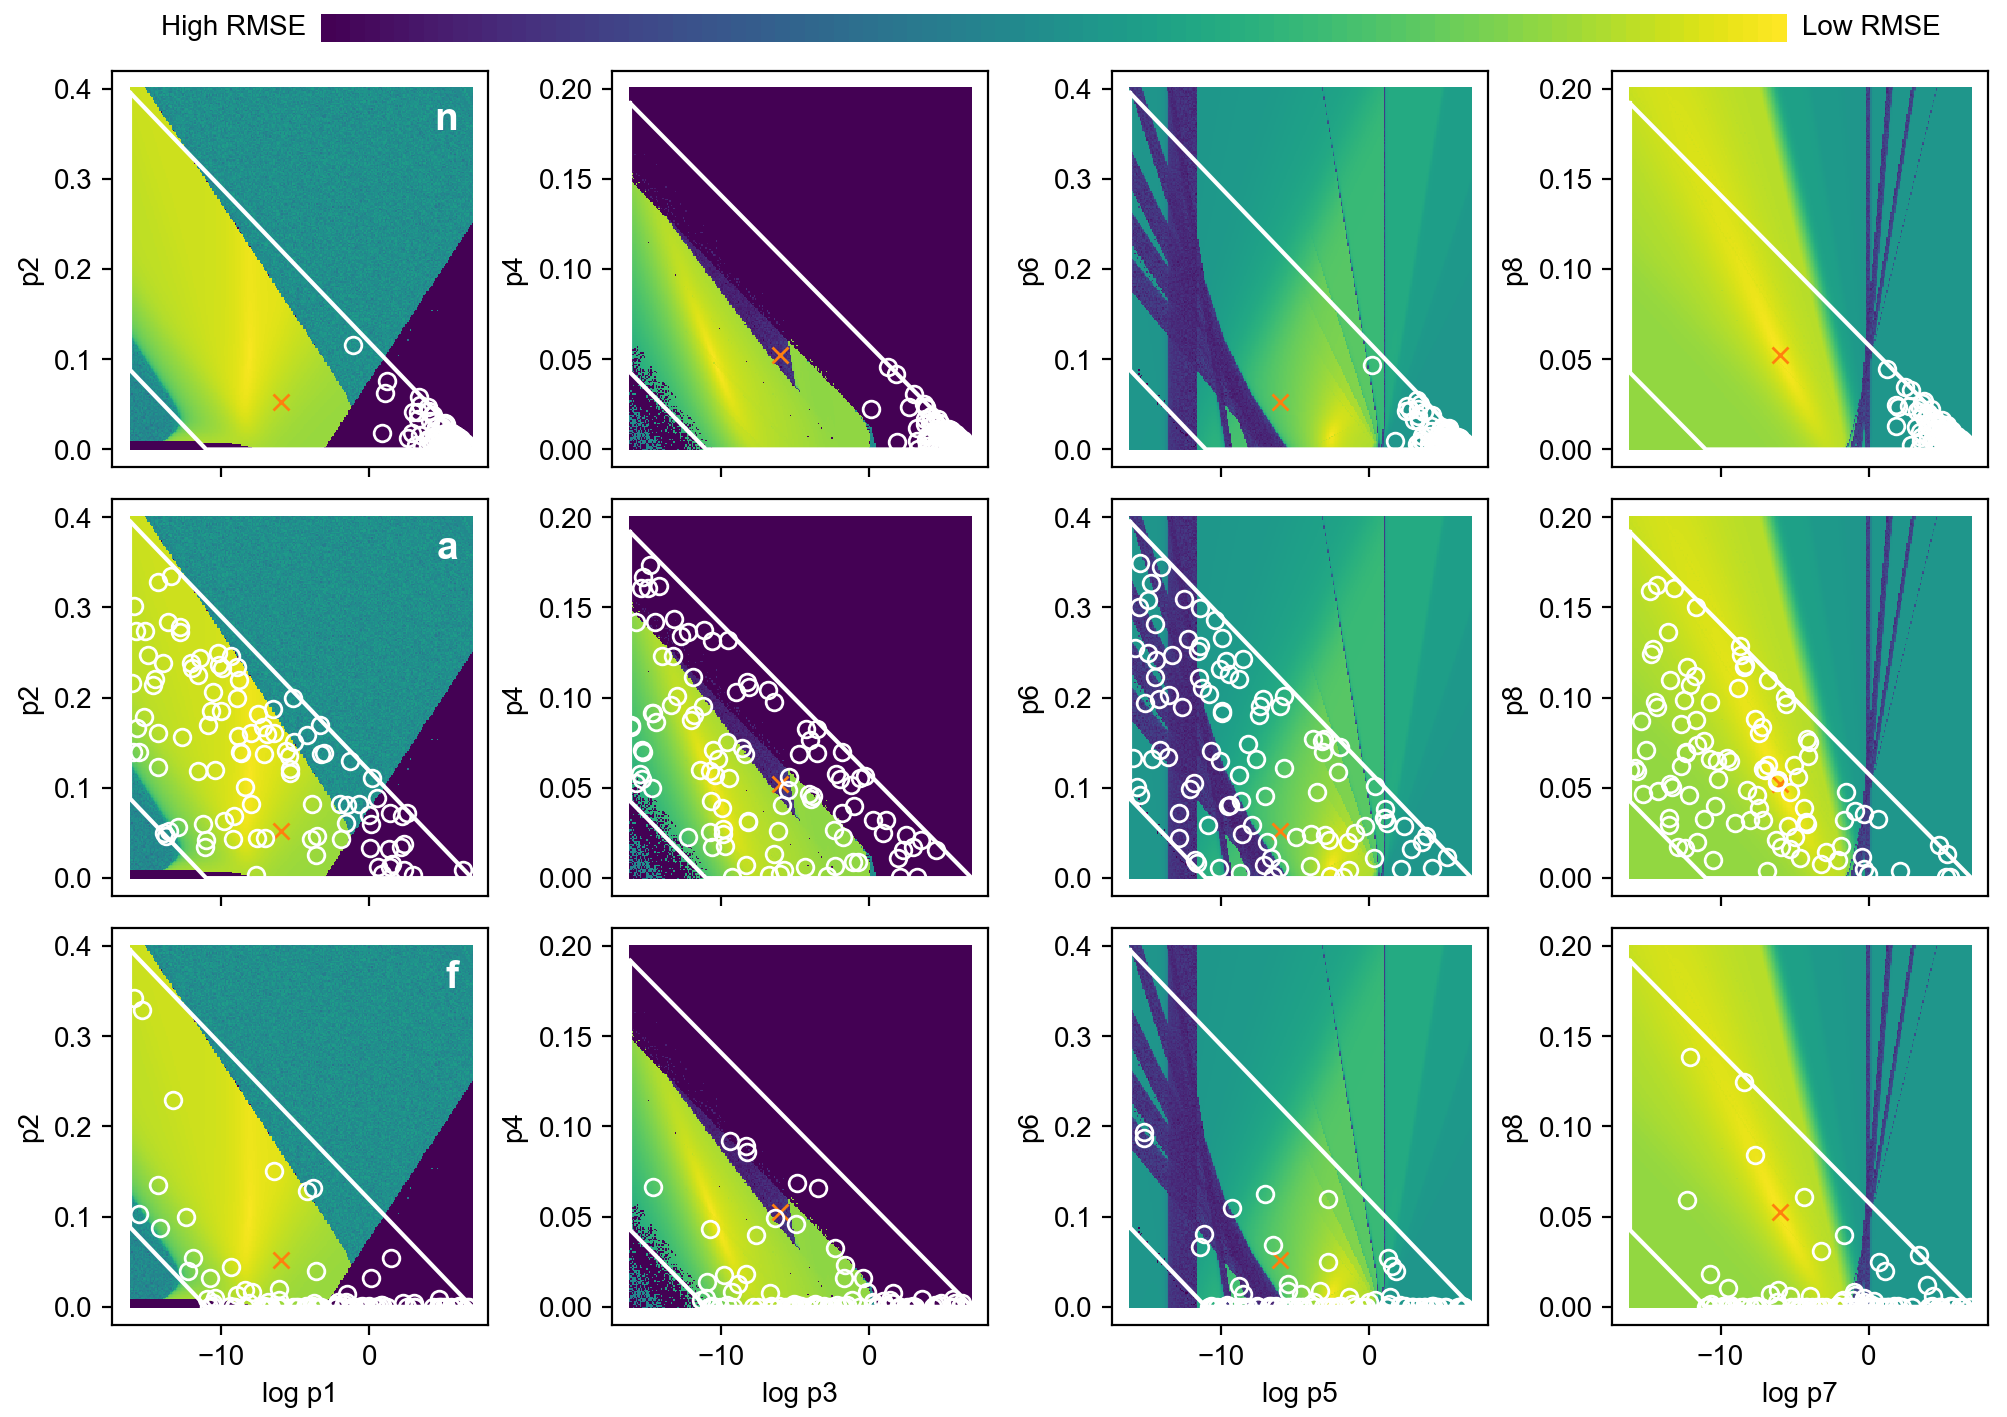
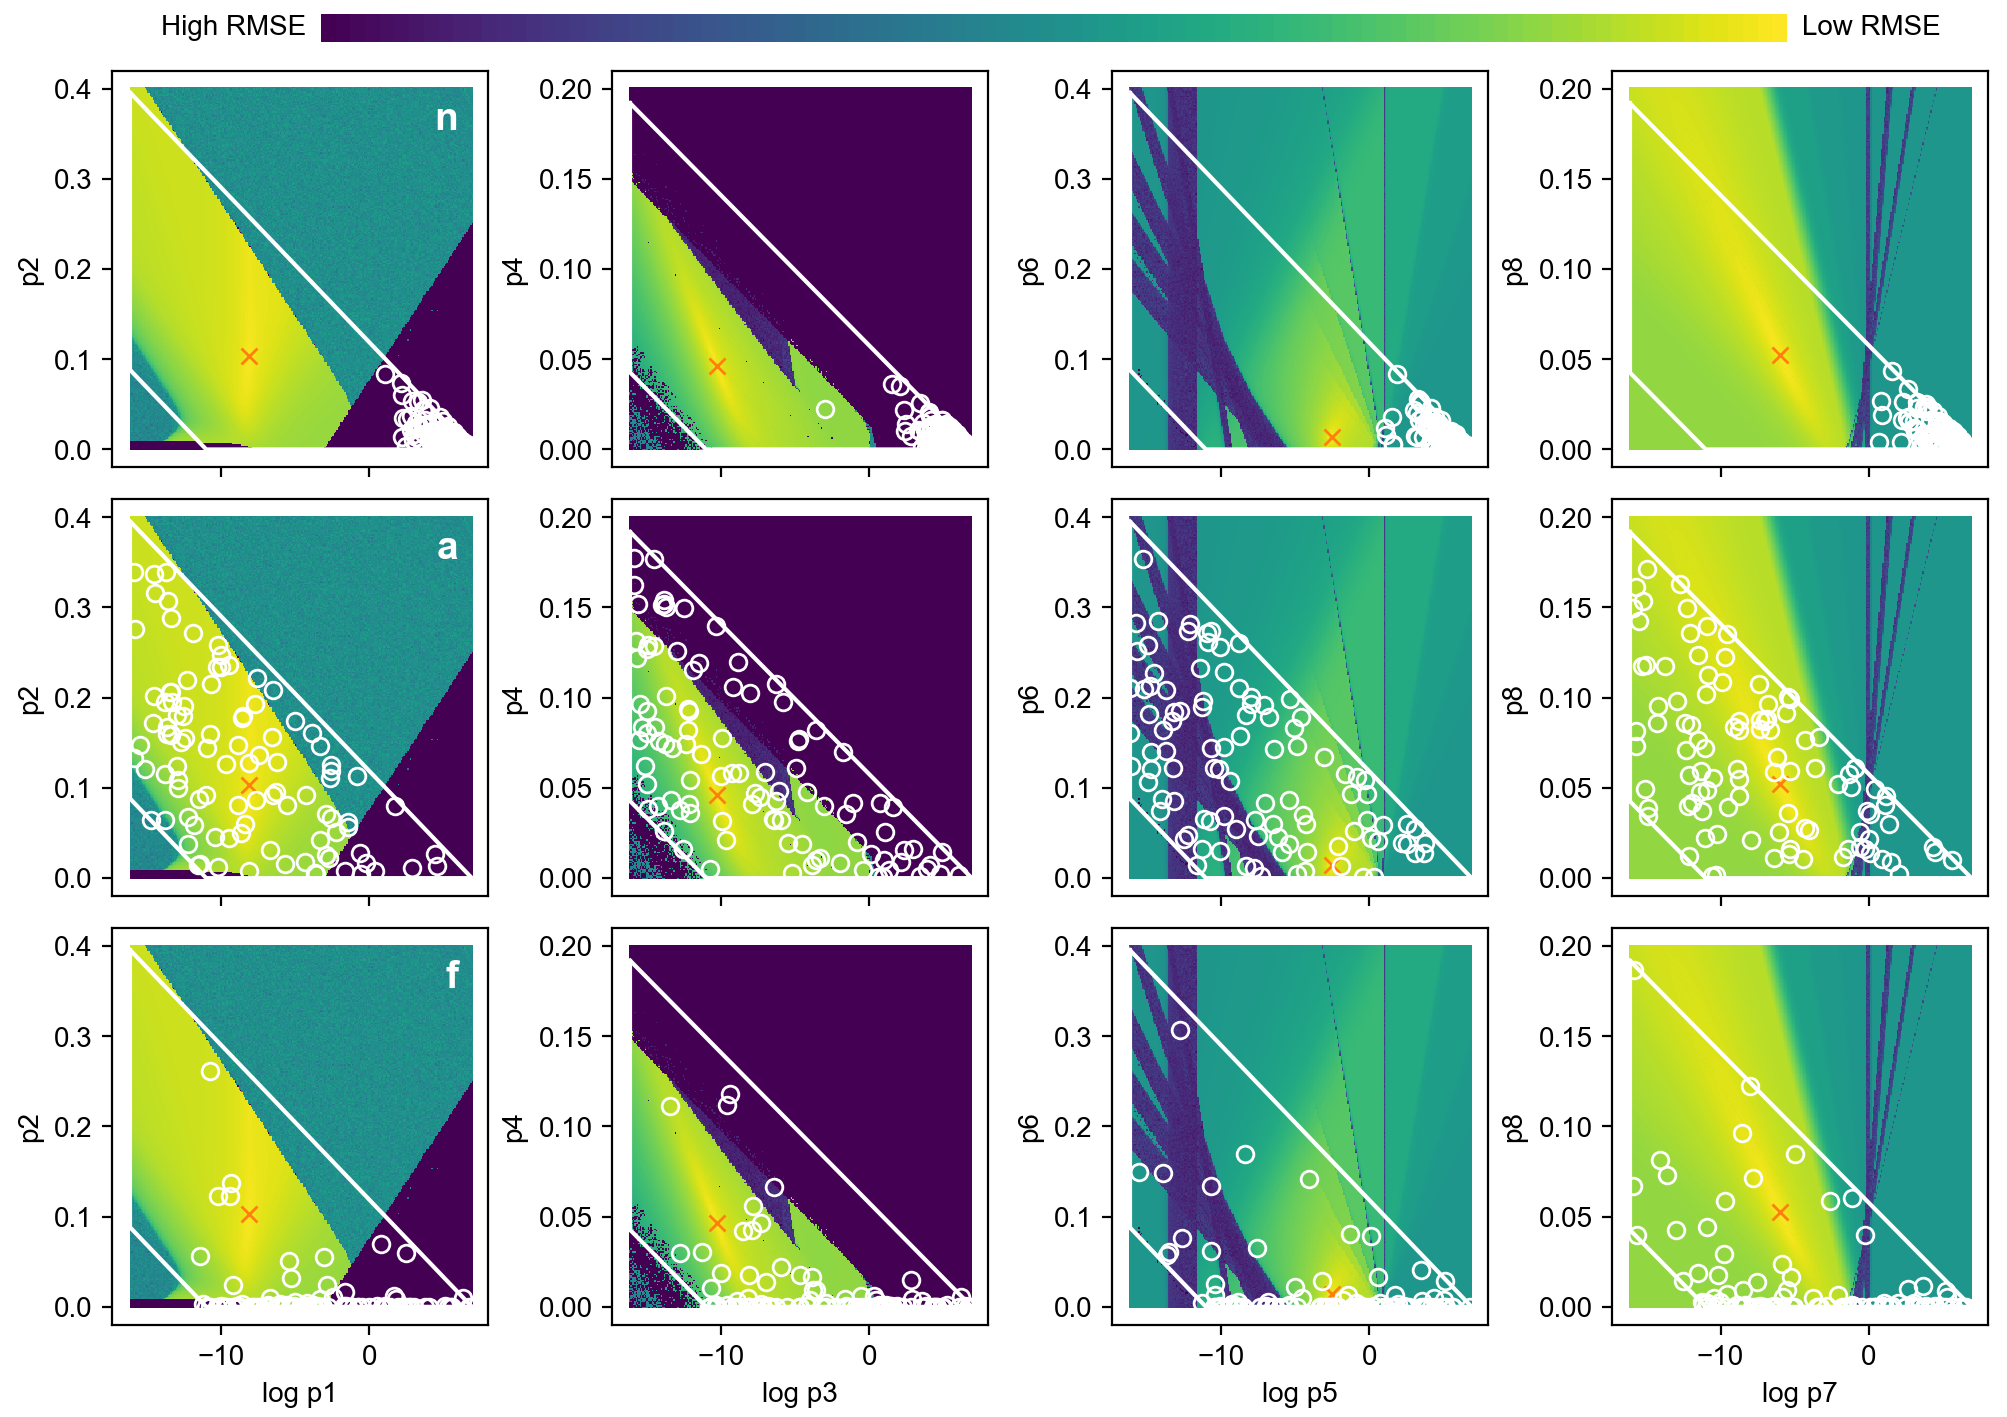
Fix to unused starting points in surface figure

diff --git a/figures-supp/s16-starting-points/sy-starting-surface.py b/figures-supp/s16-starting-points/sy-starting-surface.py
@@ -152,7 +152,7 @@ for quad in [1, 2, 3, 4]:
     gs = -np.log(np.abs(fs))
 
     # Set manual, fixed boundaries for colormap
-    print(np.min(gs[np.isfinite(gs)]), np.max(gs[np.isfinite(gs)]))
+    #print(np.min(gs[np.isfinite(gs)]), np.max(gs[np.isfinite(gs)]))
     assert np.min(gs[np.isfinite(gs)]) > gmin
     assert np.max(gs[np.isfinite(gs)]) < gmax
 
@@ -239,11 +239,6 @@ for row, tcode in enumerate('naf'):
     ]
 
     popt = results.load_parameters(cell, method)
-    qopt = np.copy(popt)
-    qopt[0] = np.log(qopt[0])
-    qopt[2] = np.log(qopt[2])
-    qopt[4] = np.log(qopt[4])
-    qopt[6] = np.log(qopt[6])
 
     axes = [ax0, ax1, ax2, ax3]
     for quad, qdata in enumerate(quads):
@@ -259,7 +254,7 @@ for row, tcode in enumerate('naf'):
             vmax=gmax,
         )
 
-        ax.plot(qopt[i], qopt[j], 'x', color='tab:orange')
+        ax.plot(np.log(popt[2*quad]), popt[2*quad+1], 'x', color='tab:orange')
 
     # Sample and plot
     trans = transformations.create(tcode)
